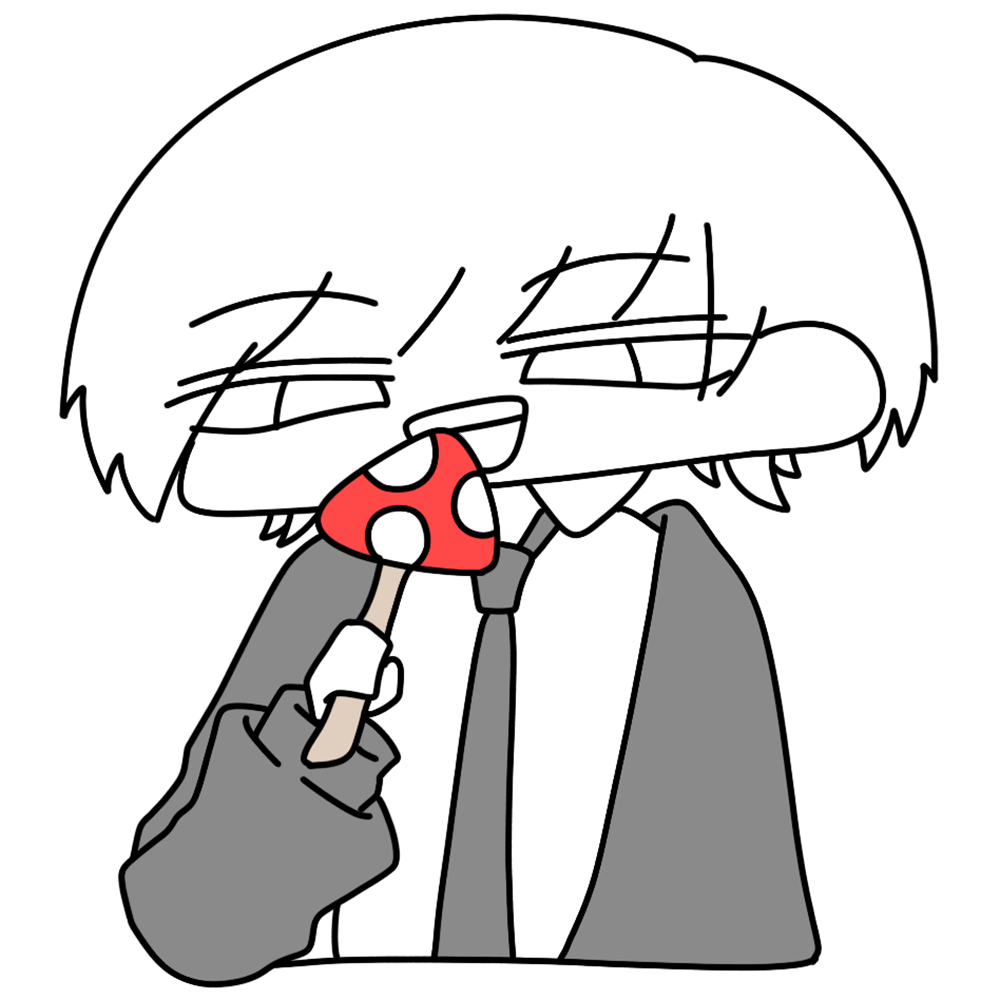
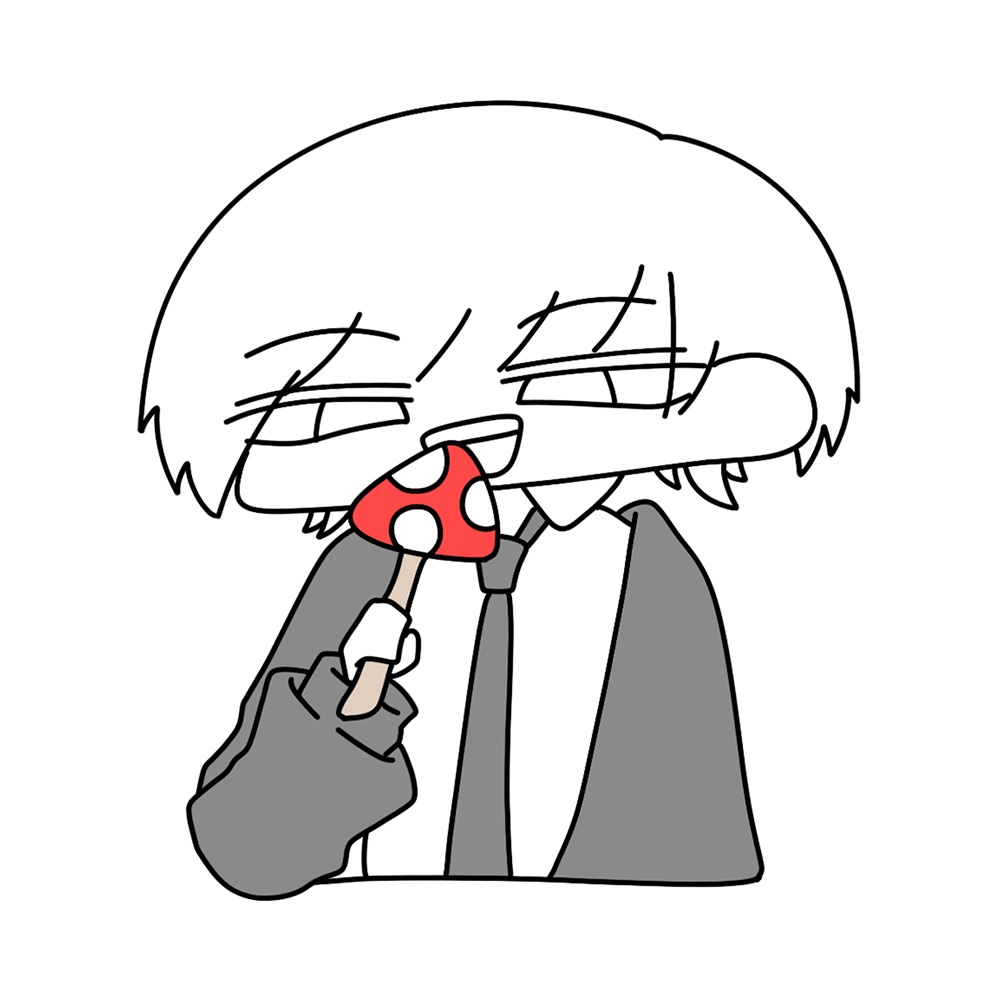
キャラ群調整、図柄サイズ調整

diff --git a/js/audio-controller.js b/js/audio-controller.js
@@ -5,7 +5,7 @@ const REEL_STOP_AUDIO_EVENT_NAME = 'slot:reel-stop-confirmed';
 const EFFECT_AUDIO_VOLUME = 0.3;
 const HELP_AUDIO_DEFAULT_VOLUME = 1;
 const LEVER_ON_CUTIN_MOVIE_DEFAULT_VOLUME = 0.3;
-const REACH_CHARACTER_GROUP_DEFAULT_VOLUME = 0.3;
+const REACH_CHARACTER_GROUP_DEFAULT_VOLUME = 1;
 
 const bgmAudio = new Audio('./audio/bgm.mp3');
 bgmAudio.loop = true;

diff --git a/js/lever-on-cutin-effect.js b/js/lever-on-cutin-effect.js
@@ -74,7 +74,10 @@ export const runLeverOnCutInEffect = async ({ detail, effectType, color, logMess
   if (cutinMovie) {
     cutinMovie.pause();
     cutinMovie.hidden = true;
-    cutinMovie.currentTime = 0;
+
+    requestAnimationFrame(() => {
+      cutinMovie.currentTime = 0;
+    });
   }
 
   window.dispatchEvent(

diff --git a/css/object/component/components/c-hit-effect-image.css b/css/object/component/components/c-hit-effect-image.css
@@ -26,7 +26,10 @@
     width: 30vw;
 }
 .c-hit-effect-image--character-group {
-    width: 40vw;
+    width: 100%;
+    height: 100%;
+    object-fit: fill;
+    z-index: 110;
 }
 .c-hit-effect-image--suzu-background {
     width: 100vw;
